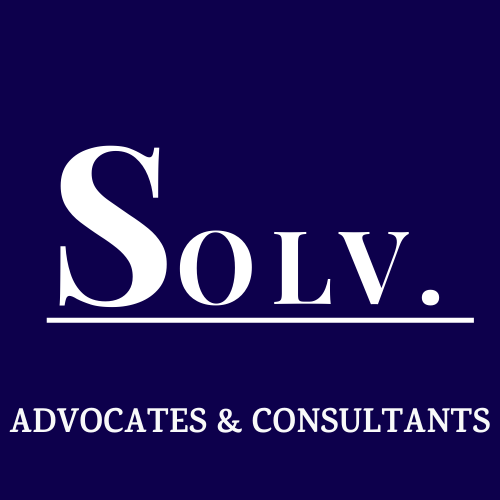
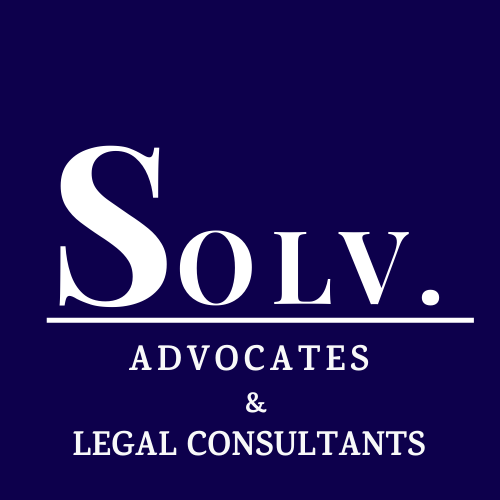
Refactor About Us page for improved content structure and clarity; update service pages to comment out completion time display

Changed region(s): [[0.0, 0.78, 0.99, 0.93], [0.24, 0.69, 0.75, 0.75]]

diff --git a/src/pages/AboutUs.tsx b/src/pages/AboutUs.tsx
@@ -6,50 +6,60 @@ export const AboutUs: React.FC = () => {
     <div className="pt-16">
       <section className="py-20 bg-white">
         <div className="max-w-7xl mx-auto px-4 sm:px-6 lg:px-8">
-          {/* Changed items-center -> items-start */}
+          {/* Header Section */}
+          <motion.div
+            initial={{ opacity: 0, y: 30 }}
+            whileInView={{ opacity: 1, y: 0 }}
+            transition={{ duration: 0.6 }}
+            className="text-center mb-16"
+          >
+            <h2 className="text-3xl lg:text-4xl font-bold font-serif text-slate-900 mb-4">
+              About Us
+            </h2>
+            <p className="text-lg text-slate-600 max-w-3xl mx-auto">
+              Solv. Advocates & Legal Consultants is a Bengaluru-based law firm
+              dedicated to providing practical and solution-oriented legal
+              services with a personal touch.
+            </p>
+          </motion.div>
+
+          {/* Main Content Grid */}
           <div className="grid grid-cols-1 lg:grid-cols-2 gap-12 items-start">
+            {/* Left Column - Content */}
             <motion.div
               initial={{ opacity: 0, x: -30 }}
               whileInView={{ opacity: 1, x: 0 }}
               transition={{ duration: 0.8 }}
+              className="mt-2"
             >
-              <h2 className="text-3xl lg:text-4xl font-bold font-serif text-slate-900 mb-6">
-                About Us
-              </h2>
-              <p className="text-lg text-slate-700 mb-6">
-                <strong>Solv. Advocates and Consultants</strong> is a
-                Bengaluru-based law firm dedicated to providing practical and
-                solution-oriented legal services. We believe that effective
-                legal advice should be clear, accessible, and tailored to each
-                client's needs.
+              <p className="text-lg text-slate-700 mb-6 leading-relaxed">
+                We believe that effective legal advice should be clear,
+                accessible, and tailored to each client's needs. Our areas of
+                practice include property law, civil litigation, consumer
+                disputes, tax law, corporate law, insurance claims, banking
+                matters, and family law such as succession, partition, and
+                matrimonial disputes.
               </p>
-              <p className="text-lg text-slate-700 mb-6">
-                Our areas of practice include{" "}
-                <strong>
-                  property law, civil litigation, consumer disputes, tax law,
-                  corporate law, insurance claims, banking matters, and family
-                  law
-                </strong>{" "}
-                such as succession, partition, and matrimonial disputes. We also
-                advise individuals, businesses, and institutions on{" "}
-                <strong>
-                  regulatory compliance, contracts, and documentation
-                </strong>
-                , ensuring their interests are safeguarded at every stage.
+              <p className="text-lg text-slate-700 mb-6 leading-relaxed">
+                We also advise individuals, businesses, and institutions on
+                regulatory compliance, contracts, and documentation, ensuring
+                their interests are safeguarded at every stage. At Solv., we
+                place strong emphasis on meticulous drafting, precise pleadings,
+                and well-prepared representation.
               </p>
             </motion.div>
 
-            {/* Added mt-2 to align better with heading */}
+            {/* Right Column - Image */}
             <motion.div
               initial={{ opacity: 0, x: 30 }}
               whileInView={{ opacity: 1, x: 0 }}
               transition={{ duration: 0.8 }}
-              className="relative mt-2"
+              className="relative"
             >
               <img
                 src="/about.jpg"
                 alt="Solv. Office"
-                className="rounded-lg shadow-lg w-full h-96 object-cover"
+                className="rounded-lg shadow-lg w-full h-[320px] lg:h-[380px] object-cover"
               />
               <div className="absolute -bottom-6 -left-6 bg-slate-900 text-white p-6 rounded-lg shadow-xl">
                 <div className="text-2xl font-bold">08+</div>
@@ -58,35 +68,25 @@ export const AboutUs: React.FC = () => {
             </motion.div>
           </div>
 
-          {/* Remaining paragraphs starting from left but spanning full width */}
+          {/* Full Width Overflow Content */}
           <motion.div
             initial={{ opacity: 0, y: 30 }}
             whileInView={{ opacity: 1, y: 0 }}
             transition={{ duration: 0.8, delay: 0.2 }}
             className="mt-12"
           >
-            <p className="text-lg text-slate-700 mb-6">
-              At Solv., we place strong emphasis on{" "}
-              <strong>
-                meticulous drafting, precise pleadings, and well-prepared
-                representation
-              </strong>
-              . This attention to detail allows us to deliver reliable outcomes
-              both inside and outside the courtroom.
+            <p className="text-lg text-slate-700 mb-6 leading-relaxed">
+              This attention to detail allows us to deliver reliable outcomes
+              both inside and outside the courtroom. What makes us distinct is
+              our personalized approach. We recognize that no two matters are
+              the same and work closely with our clients to develop strategies
+              that are both legally sound and practically effective.
             </p>
-            <p className="text-lg text-slate-700 mb-6">
-              What makes us distinct is our{" "}
-              <strong>personalized approach</strong>. We recognize that no two
-              matters are the same and work closely with our clients to develop
-              strategies that are both legally sound and practically effective.
-              Our goal is not only to resolve disputes but also to provide{" "}
-              <strong>preventive legal guidance</strong> that reduces risks in
-              the future.
-            </p>
-            <p className="text-lg text-slate-700">
-              With a commitment to{" "}
-              <strong>clarity, integrity, and results</strong>, Solv. Advocates
-              and Consultants serves as a trusted partner for clients navigating
+            <p className="text-lg text-slate-700 mb-6 leading-relaxed">
+              Our goal is not only to resolve disputes but also to provide
+              preventive legal guidance that reduces risks in the future. With a
+              commitment to clarity, integrity, and results, Solv. Advocates and
+              Consultants serves as a trusted partner for clients navigating
               complex legal challenges with confidence.
             </p>
           </motion.div>
@@ -106,7 +106,7 @@ export const AboutUs: React.FC = () => {
               About Founder
             </h2>
             <p className="text-lg text-slate-600 max-w-3xl mx-auto">
-              Meet the visionary behind Solv. Advocates and Consultants,
+              Meet the visionary behind Solv. Advocates & Legal Consultants,
               delivering practical, solution-oriented legal services with a
               personal touch.
             </p>
@@ -144,28 +144,24 @@ export const AboutUs: React.FC = () => {
                 Navya Shetty Raju
               </h3>
               <p className="text-lg text-slate-700 font-medium mb-6">
-                Founder, <strong>Solv. Advocates and Consultants</strong>
+                Founder, Solv. Advocates & Legal Consultants
               </p>
               <p className="text-lg text-slate-700 mb-6 leading-relaxed">
-                Navya Shetty Raju is the Founder of{" "}
-                <strong>Solv. Advocates and Consultants</strong>, a
-                Bengaluru-based law firm known for delivering practical,
-                solution-oriented legal services with a personal touch. With
-                eight years of combined experience in litigation, legal
-                drafting, and academic instruction, she brings a rare blend of
-                courtroom acumen and scholarly insight to every matter she
-                handles.
+                Navya Shetty Raju is the Founder of Solv. Advocates & Legal
+                Consultants, a Bengaluru-based law firm known for delivering
+                practical, solution-oriented legal services with a personal
+                touch. With eight years of combined experience in litigation,
+                legal drafting, and academic instruction, she brings a rare
+                blend of courtroom acumen and scholarly insight to every matter
+                she handles.
               </p>
               <p className="text-lg text-slate-700 mb-6 leading-relaxed">
-                A practicing advocate, Navya specializes in{" "}
-                <strong>
-                  property law, civil litigation, consumer disputes, insurance
-                  claims, banking matters
-                </strong>
-                , and <strong>family law</strong>, including succession,
-                partition, and matrimonial disputes. Her legal practice is
-                distinguished by meticulous documentation, precise pleadings,
-                and strategic courtroom representation.
+                A practicing advocate, Navya specializes in property law, civil
+                litigation, consumer disputes, insurance claims, banking matters
+                , and family law, including succession, partition, and
+                matrimonial disputes. Her legal practice is distinguished by
+                meticulous documentation, precise pleadings, and strategic
+                courtroom representation.
               </p>
             </motion.div>
           </div>
@@ -182,28 +178,27 @@ export const AboutUs: React.FC = () => {
               individuals, businesses, and institutions, combining a deep
               understanding of the law with a commitment to protecting her
               clients' interests. Academically accomplished, Navya holds an{" "}
-              <strong>LL.M. in Commercial and Corporate Law</strong> from Christ
-              (Deemed to be University) and a <strong>BBA LL.B.</strong> from
-              Bishop Cotton Women's Christian Law College.
+              LL.M. in Commercial and Corporate Law from Christ (Deemed to be
+              University) and a BBA LL.B. from Bishop Cotton Women's Christian
+              Law College.
             </p>
             <p className="text-lg text-slate-700 mb-6 leading-relaxed">
-              She is currently pursuing her <strong>Ph.D. in Law</strong> at
-              Alliance University, further deepening her expertise. Her
-              intellectual contributions include presenting and publishing
-              research papers at national and international conferences on
-              diverse topics such as cyber security, e-waste management,
-              socio-economic justice, and consumer protection. These engagements
-              reflect her commitment to continuous learning and to contributing
-              to the legal discourse in emerging and critical areas of law.
+              She is currently pursuing her Ph.D. in Law at Alliance University,
+              further deepening her expertise. Her intellectual contributions
+              include presenting and publishing research papers at national and
+              international conferences on diverse topics such as cyber
+              security, e-waste management, socio-economic justice, and consumer
+              protection. These engagements reflect her commitment to continuous
+              learning and to contributing to the legal discourse in emerging
+              and critical areas of law.
             </p>
             <p className="text-lg text-slate-700 leading-relaxed">
               Driven by a vision to provide accessible, effective, and ethical
-              legal solutions, Navya leads{" "}
-              <strong>Solv. Advocates and Consultants</strong> with integrity
-              and a client-first approach. Whether representing clients in
-              court, advising on complex legal transactions, or mentoring the
-              next generation of legal professionals, she remains dedicated to
-              upholding justice and delivering results that matter.
+              legal solutions, Navya leads Solv. Advocates & Legal Consultants
+              with integrity and a client-first approach. Whether representing
+              clients in court, advising on complex legal transactions, or
+              mentoring the next generation of legal professionals, she remains
+              dedicated to upholding justice and delivering results that matter.
             </p>
           </motion.div>
         </div>

diff --git a/src/pages/services/quick/LegalNotice.tsx b/src/pages/services/quick/LegalNotice.tsx
@@ -15,6 +15,9 @@ export const LegalNotice: React.FC = () => {
 
   const [isSubmitted, setIsSubmitted] = useState(false);
   const { isSubmitting, result, submitForm } = useWeb3Form();
+  React.useEffect(() => {
+    console.log("Has WEB3 key?", !!import.meta.env.VITE_WEB3_FORMS_ACCESS_KEY);
+  }, []);
 
   const handleSubmit = async (e: React.FormEvent) => {
     e.preventDefault();
@@ -287,12 +290,12 @@ export const LegalNotice: React.FC = () => {
                 </div>
 
                 <div className="mt-4 p-3 bg-green-50 rounded-md">
-                  <div className="flex items-center space-x-2">
+                  {/* <div className="flex items-center space-x-2">
                     <Clock className="h-4 w-4 text-green-600" />
                     <span className="text-sm font-medium text-green-800">
                       Completion: 1-2 business days
                     </span>
-                  </div>
+                  </div> */}
                 </div>
               </div>
             </motion.div>

diff --git a/src/pages/services/quick/ContractDrafting.tsx b/src/pages/services/quick/ContractDrafting.tsx
@@ -310,12 +310,12 @@ export const ContractDrafting: React.FC = () => {
                 </div>
 
                 <div className="mt-4 p-3 bg-green-50 rounded-md">
-                  <div className="flex items-center space-x-2">
+                  {/* <div className="flex items-center space-x-2">
                     <Clock className="h-4 w-4 text-green-600" />
                     <span className="text-sm font-medium text-green-800">
                       Completion: 3-5 business days
                     </span>
-                  </div>
+                  </div> */}
                 </div>
               </div>
             </motion.div>

diff --git a/src/pages/services/quick/LegalOpinion.tsx b/src/pages/services/quick/LegalOpinion.tsx
@@ -311,12 +311,12 @@ export const LegalOpinion: React.FC = () => {
                 </div>
 
                 <div className="mt-4 p-3 bg-green-50 rounded-md">
-                  <div className="flex items-center space-x-2">
+                  {/* <div className="flex items-center space-x-2">
                     <Clock className="h-4 w-4 text-green-600" />
                     <span className="text-sm font-medium text-green-800">
                       Completion: 2-3 business days
                     </span>
-                  </div>
+                  </div> */}
                 </div>
               </div>
             </motion.div>

diff --git a/index.html b/index.html
@@ -6,7 +6,9 @@
     <meta name="viewport" content="width=device-width, initial-scale=1.0" />
 
     <!-- Title -->
-    <title>Solv. Advocates & Consultants | Top Law Firm in Bangalore</title>
+    <title>
+      Solv. Advocates & Legal Consultants | Top Law Firm in Bangalore
+    </title>
 
     <!-- Meta Description -->
     <meta
